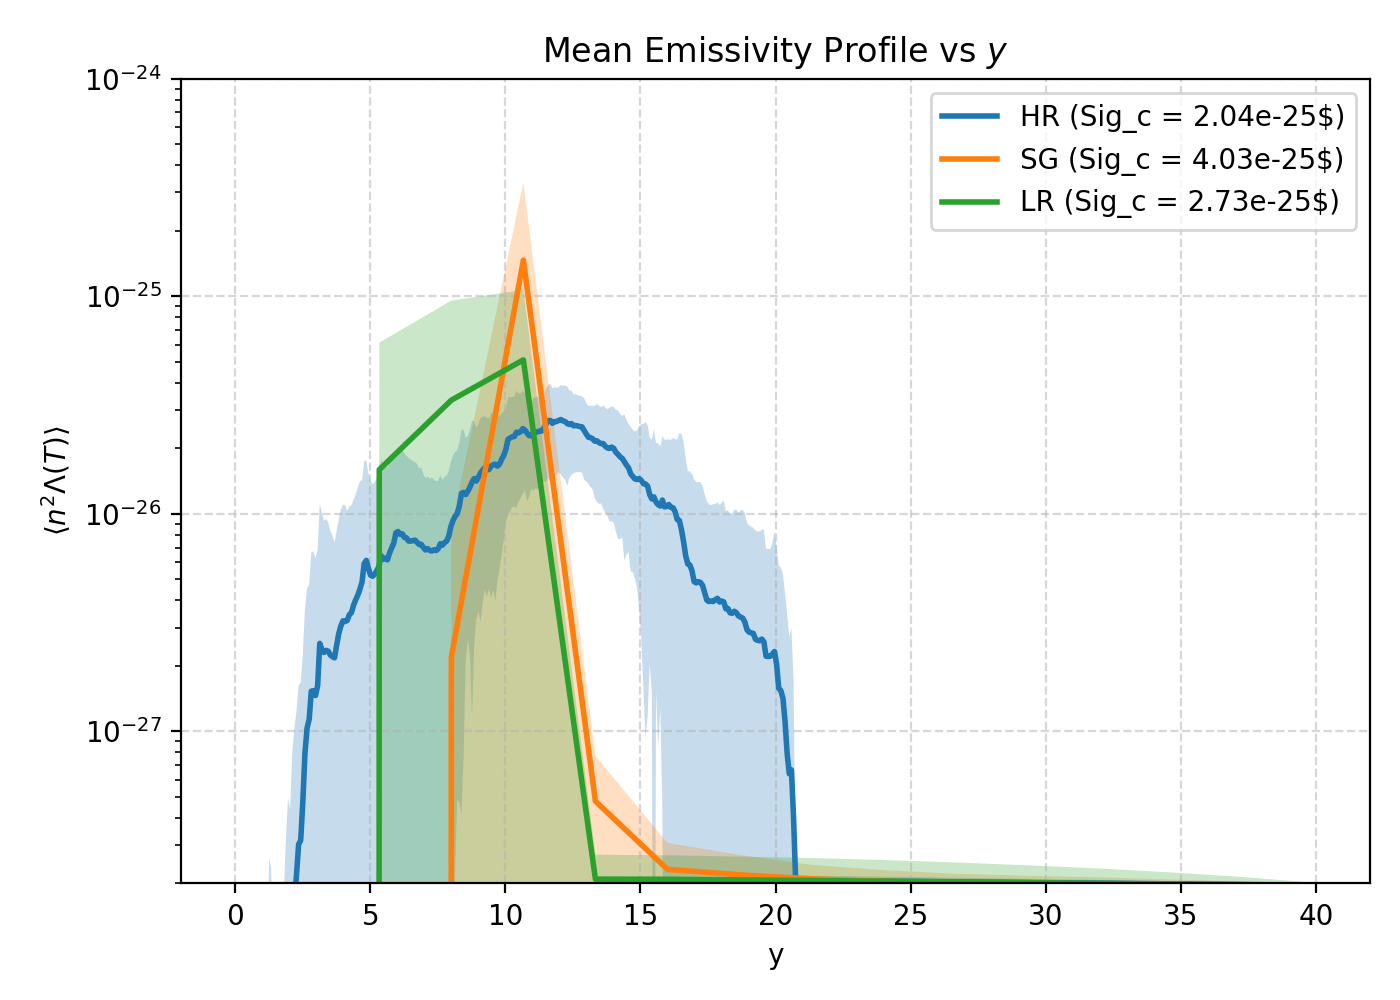
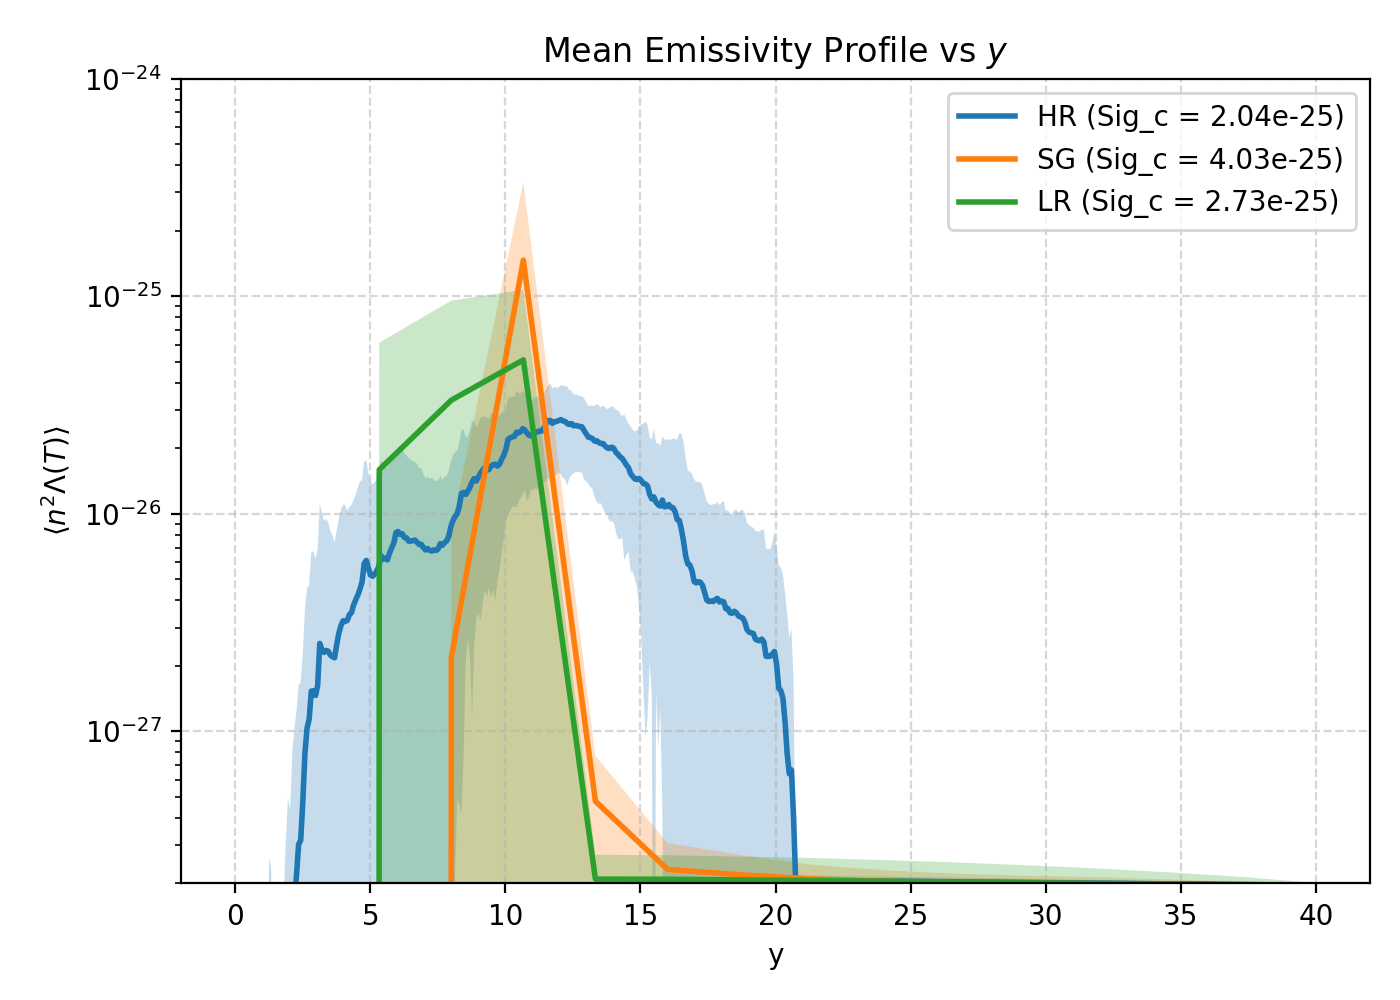
pdf

Changed region(s): [[0.645, 0.093, 0.9521, 0.217]]

diff --git a/data/mocks/mock_sg.py b/data/mocks/mock_sg.py
@@ -1074,7 +1074,7 @@ ax.plot(
     y_hr,
     emis_hr_mean,
     lw=2,
-    label=rf"HR (Sig_c = {int_hr:.2e}$)"
+    label=rf"HR (Sig_c = {int_hr:.2e})"
 )
 
 ax.fill_between(
@@ -1089,7 +1089,7 @@ ax.plot(
     y_sg,
     emis_sg_mean,
     lw=2,
-    label=rf"SG (Sig_c = {int_sg:.2e}$)"
+    label=rf"SG (Sig_c = {int_sg:.2e})"
 )
 
 ax.fill_between(
@@ -1104,7 +1104,7 @@ ax.plot(
     y_lr,
     emis_lr_mean,
     lw=2,
-    label=rf"LR (Sig_c = {int_lr:.2e}$)"
+    label=rf"LR (Sig_c = {int_lr:.2e})"
 )
 
 ax.fill_between(
